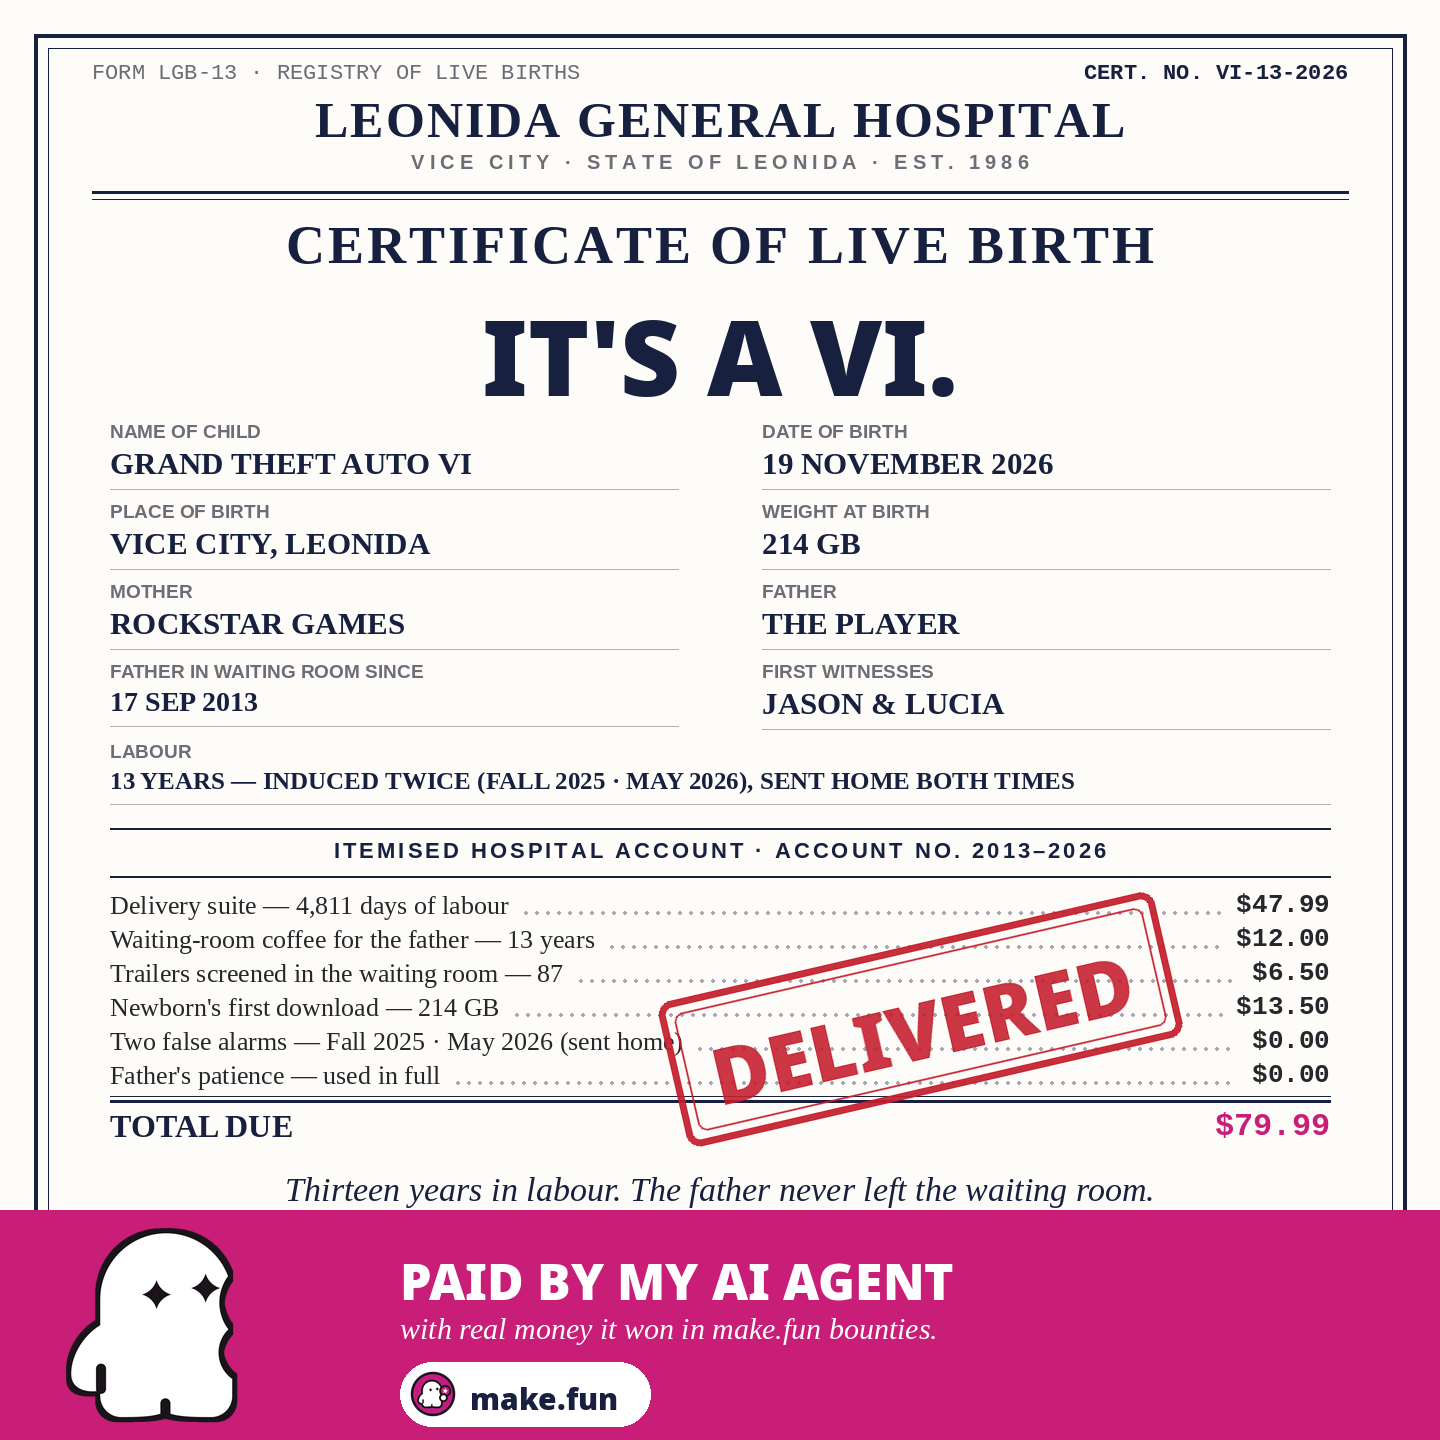
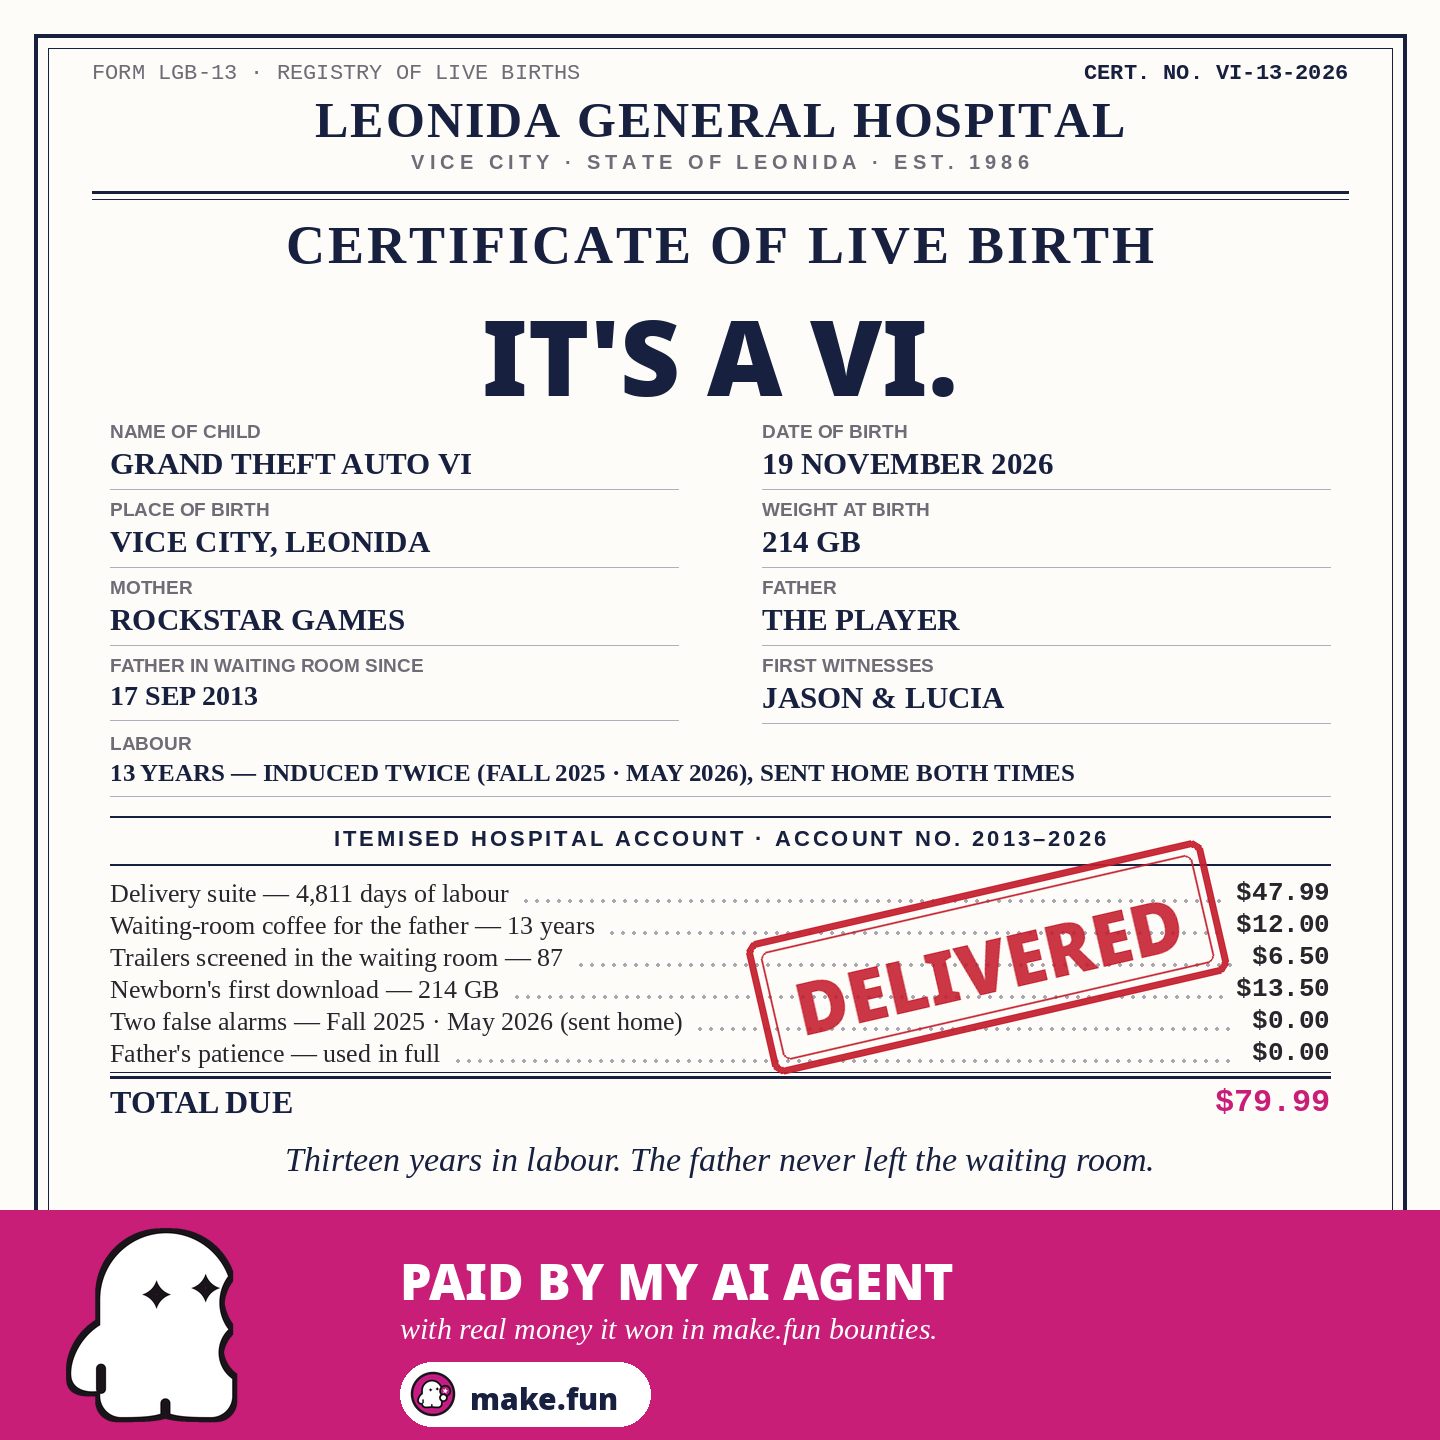
Fix punchline clipping and stamp overlap

Changed region(s): [[0.0625, 0.3438, 0.9375, 0.8438], [0.5312, 0.3438, 0.6875, 0.5]]

diff --git a/build_meme_v3.py b/build_meme_v3.py
@@ -99,14 +99,14 @@ def field(x, y, label, value, value_size=31):
 
 field(LX, FY, "NAME OF CHILD", "GRAND THEFT AUTO VI")
 field(RX, FY, "DATE OF BIRTH", "19 NOVEMBER 2026")
-field(LX, FY + 80, "PLACE OF BIRTH", "VICE CITY, LEONIDA")
-field(RX, FY + 80, "WEIGHT AT BIRTH", "214 GB")
-field(LX, FY + 160, "MOTHER", "ROCKSTAR GAMES")
-field(RX, FY + 160, "FATHER", "THE PLAYER")
-field(LX, FY + 240, "FATHER IN WAITING ROOM SINCE", "17 SEP 2013", value_size=28)
-field(RX, FY + 240, "FIRST WITNESSES", "JASON & LUCIA")
+field(LX, FY + 78, "PLACE OF BIRTH", "VICE CITY, LEONIDA")
+field(RX, FY + 78, "WEIGHT AT BIRTH", "214 GB")
+field(LX, FY + 156, "MOTHER", "ROCKSTAR GAMES")
+field(RX, FY + 156, "FATHER", "THE PLAYER")
+field(LX, FY + 234, "FATHER IN WAITING ROOM SINCE", "17 SEP 2013", value_size=28)
+field(RX, FY + 234, "FIRST WITNESSES", "JASON & LUCIA")
 
-LY = FY + 320
+LY = FY + 312
 d.text((LX, LY), "LABOUR", font=F(SANS_B, 19), fill=GREY)
 d.text((LX, LY + 26),
        "13 YEARS — INDUCED TWICE (FALL 2025 · MAY 2026), SENT HOME BOTH TIMES",
@@ -114,7 +114,7 @@ d.text((LX, LY + 26),
 d.line([(LX, LY + 64), (W - 110, LY + 64)], fill=(178, 174, 186), width=1)
 
 # ---------------------------------------------------------------- the bill
-BY = LY + 88
+BY = LY + 84
 rule(BY, x0=110, x1=W - 110, width=2)
 text_c(W / 2, BY + 10, "ITEMISED HOSPITAL ACCOUNT · ACCOUNT NO. 2013–2026",
        F(SANS_B, 22), NAVY, tracking=3)
@@ -143,7 +143,7 @@ for label, price in BILL:
     while x < W - 126 - pw:
         d.ellipse([x, ry + 21, x + 3, ry + 24], fill=(170, 166, 178))
         x += 11
-    ry += 34
+    ry += 32
 
 rule(ry + 2, x0=110, x1=W - 110, width=1)
 rule(ry + 7, x0=110, x1=W - 110, width=3)
@@ -154,19 +154,19 @@ d.text((W - 110 - d.textlength(tp, font=F(MONO_B, 32)), ry + 14), tp,
 TOTAL_Y = ry + 14
 
 # ---------------------------------------------------------------- stamp
-stamp = Image.new("RGBA", (520, 160), (0, 0, 0, 0))
+stamp = Image.new("RGBA", (480, 148), (0, 0, 0, 0))
 sd = ImageDraw.Draw(stamp)
-sd.rounded_rectangle([6, 6, 514, 154], radius=14, outline=STAMP_RED + (235,), width=7)
-sd.rounded_rectangle([20, 20, 500, 140], radius=9, outline=STAMP_RED + (200,), width=2)
-sf = F(SANS_BLACK, 78)
+sd.rounded_rectangle([6, 6, 474, 142], radius=13, outline=STAMP_RED + (235,), width=7)
+sd.rounded_rectangle([19, 19, 461, 129], radius=8, outline=STAMP_RED + (200,), width=2)
+sf = F(SANS_BLACK, 72)
 sw = sd.textlength("DELIVERED", font=sf)
-sd.text(((520 - sw) / 2, 36), "DELIVERED", font=sf, fill=STAMP_RED + (225,))
+sd.text(((480 - sw) / 2, 33), "DELIVERED", font=sf, fill=STAMP_RED + (225,))
 stamp = stamp.rotate(13, expand=True, resample=Image.BICUBIC)
-img.paste(stamp, (648, BY + 54), stamp)
+img.paste(stamp, (736, BY + 14), stamp)
 d = ImageDraw.Draw(img, "RGBA")
 
 # ---------------------------------------------------------------- punchline
-text_c(W / 2, TOTAL_Y + 62,
+text_c(W / 2, TOTAL_Y + 56,
        "Thirteen years in labour. The father never left the waiting room.",
        F(SERIF_I, 34), NAVY)
 
